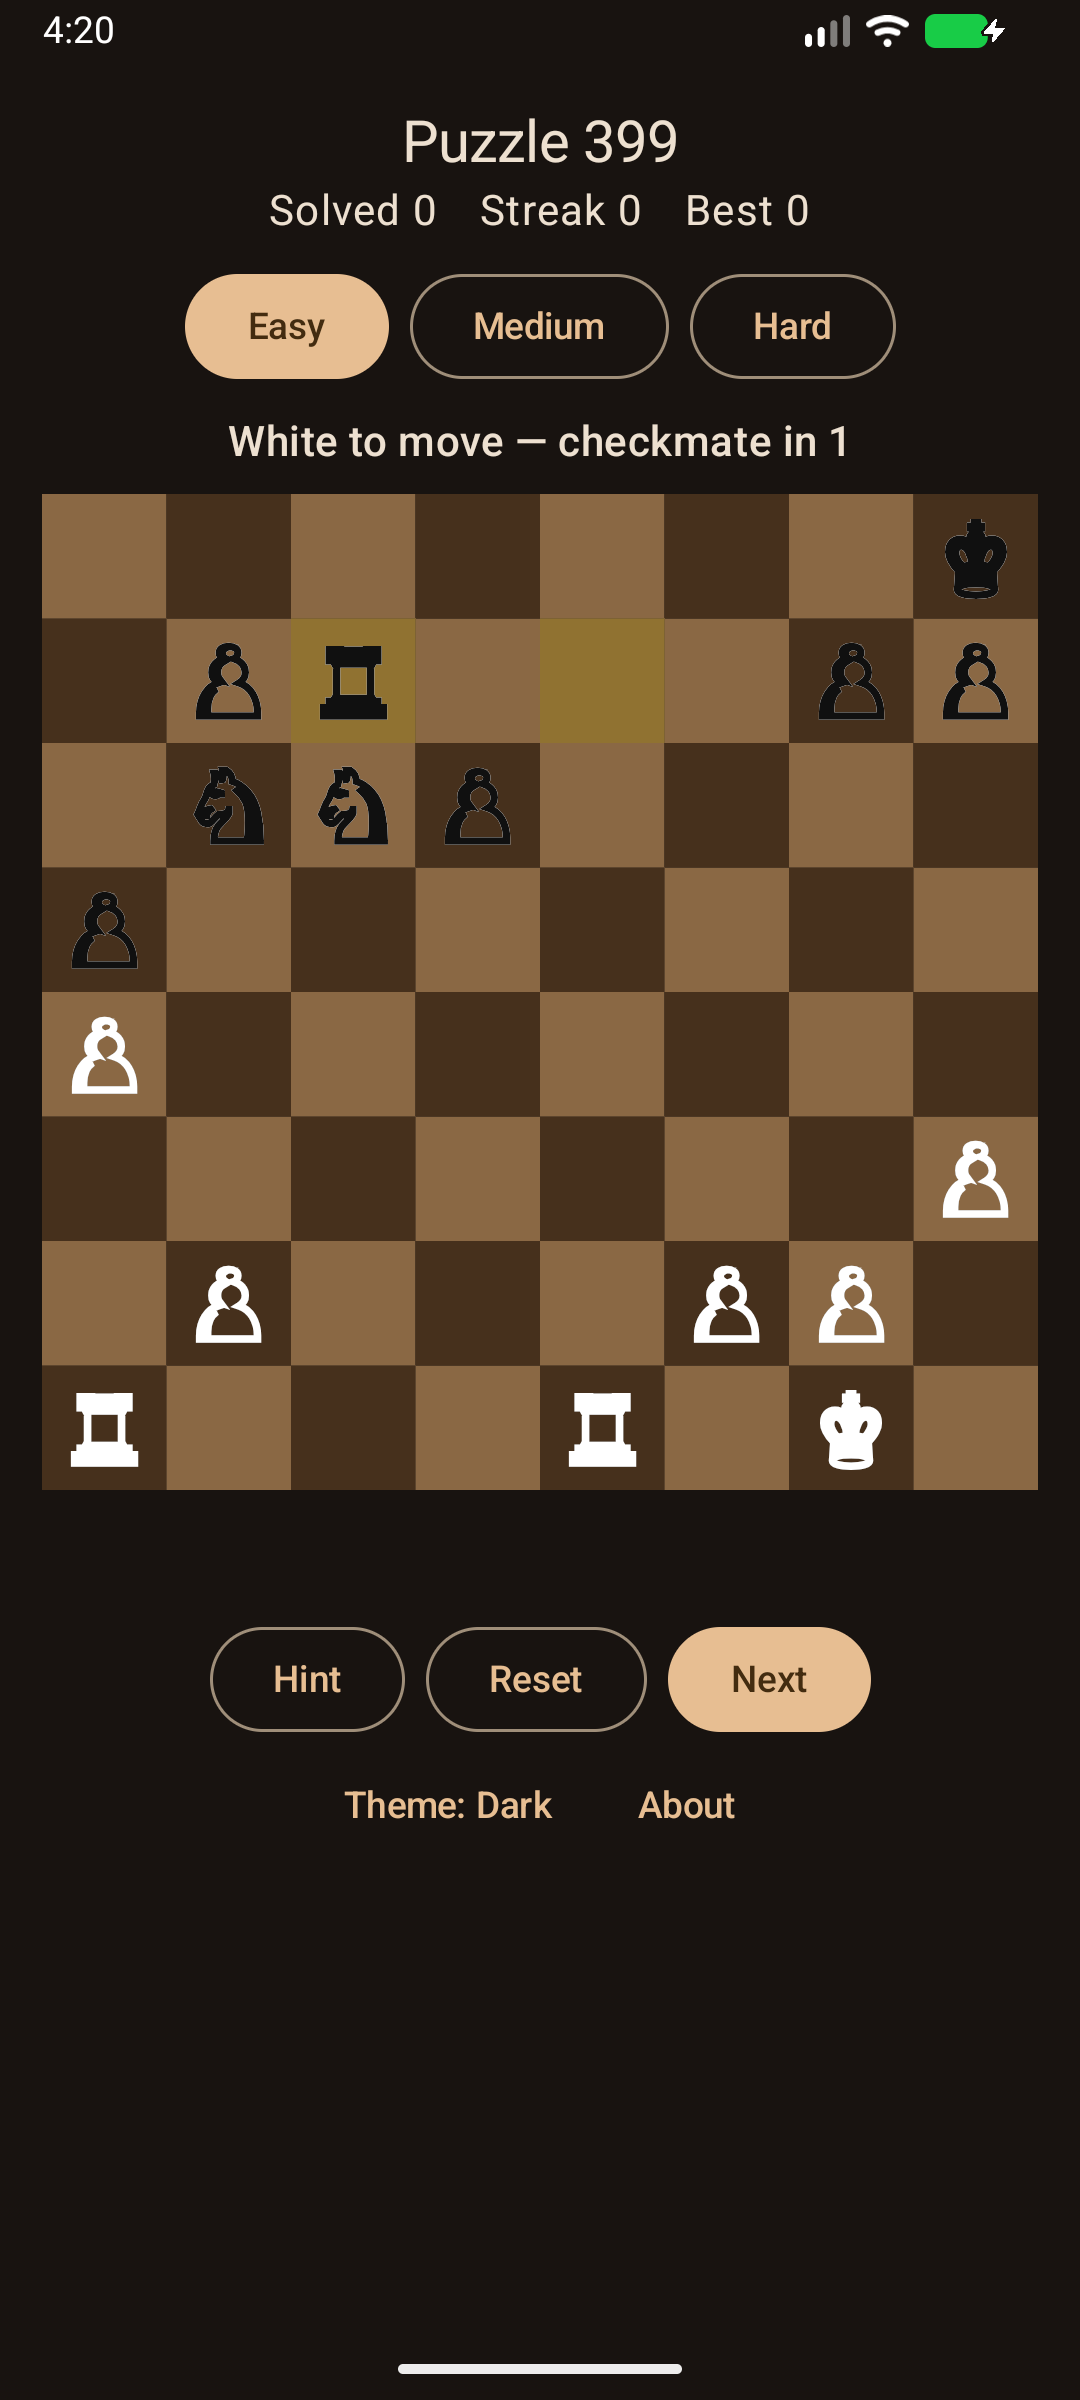
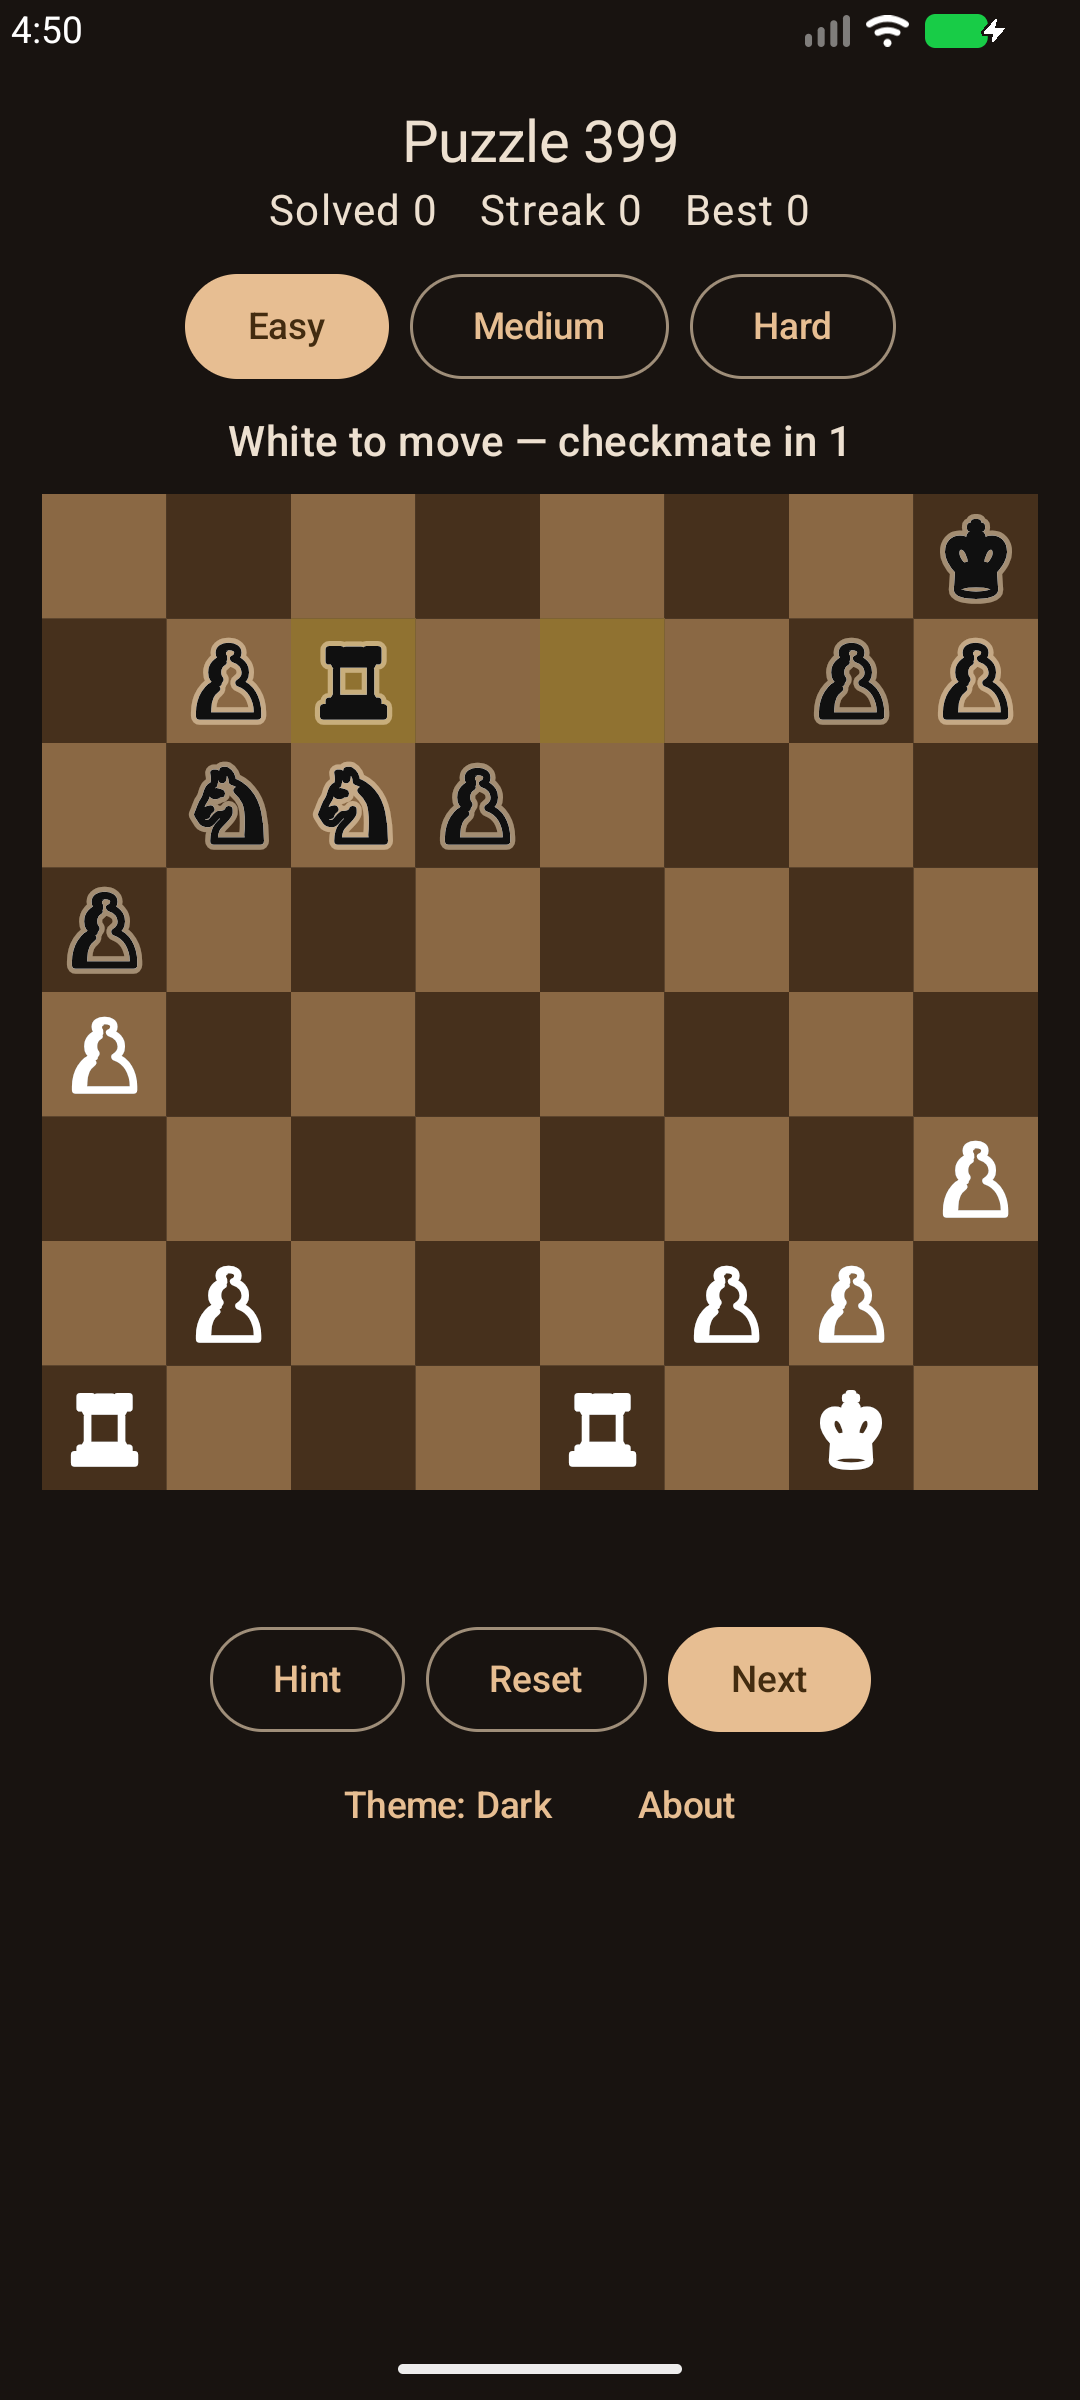
fix: soft halo makes dark pieces spottable on the night board
The thicker rim helped legibility but not peripheral spotting — a black
fill can never reach useful contrast against the dark night square, so
the eye needs local contrast around the silhouette. Dark pieces now get
a translucent warm aura (night only, palette-driven), and both aura and
rim use rounded stroke joins: wide strokes on sharp glyph corners threw
long miter spikes otherwise. Night screenshots refreshed.

diff --git a/app/src/main/java/dk/cocode/chess/ui/board/BoardDrawing.kt b/app/src/main/java/dk/cocode/chess/ui/board/BoardDrawing.kt
@@ -3,6 +3,8 @@ package dk.cocode.chess.ui.board
 import androidx.compose.ui.geometry.Offset
 import androidx.compose.ui.geometry.Size
 import androidx.compose.ui.graphics.Color
+import androidx.compose.ui.graphics.StrokeCap
+import androidx.compose.ui.graphics.StrokeJoin
 import androidx.compose.ui.graphics.drawscope.DrawScope
 import androidx.compose.ui.graphics.drawscope.Stroke
 import androidx.compose.ui.text.TextMeasurer
@@ -57,14 +59,30 @@ internal fun DrawScope.drawPieces(
             val topLeft = BoardGeometry.squareTopLeft(Square(file, rank), squarePx, flipped)
             val white = PieceGlyph.isWhite(code)
             val glyph = PieceGlyph.glyph(code)
-            // Outline first, fill on top: a contrasting rim so white pieces read on light
-            // squares and dark pieces read on dark squares.
+            // Halo (night only), then outline, then fill: a contrasting rim so white pieces
+            // read on light squares and dark pieces read on dark squares; the aura makes dark
+            // pieces spottable on the dimmed night board. Round joins/caps: wide strokes on
+            // sharp glyph corners would otherwise throw long miter spikes.
+            val halo = if (!white && palette.darkPieceHaloWidth > 0f) {
+                textMeasurer.measure(
+                    text = glyph,
+                    style = TextStyle(
+                        color = palette.darkPieceHalo,
+                        fontSize = fontSize,
+                        drawStyle = Stroke(
+                            width = squarePx * palette.darkPieceHaloWidth,
+                            cap = StrokeCap.Round,
+                            join = StrokeJoin.Round,
+                        ),
+                    ),
+                )
+            } else null
             val outline = textMeasurer.measure(
                 text = glyph,
                 style = TextStyle(
                     color = if (white) PIECE_WHITE_OUTLINE else palette.darkPieceOutline,
                     fontSize = fontSize,
-                    drawStyle = Stroke(width = outlineWidth),
+                    drawStyle = Stroke(width = outlineWidth, cap = StrokeCap.Round, join = StrokeJoin.Round),
                 ),
             )
             val fill = textMeasurer.measure(
@@ -75,6 +93,7 @@ internal fun DrawScope.drawPieces(
                 topLeft.x + (squarePx - fill.size.width) / 2f,
                 topLeft.y + (squarePx - fill.size.height) / 2f,
             )
+            halo?.let { drawText(textLayoutResult = it, topLeft = offset) }
             drawText(textLayoutResult = outline, topLeft = offset)
             drawText(textLayoutResult = fill, topLeft = offset)
         }

diff --git a/app/src/main/java/dk/cocode/chess/ui/board/BoardPalette.kt b/app/src/main/java/dk/cocode/chess/ui/board/BoardPalette.kt
@@ -14,6 +14,9 @@ data class BoardPalette(
     val darkPieceOutline: Color,
     /** Outline stroke width as a fraction of the square size. */
     val pieceOutlineWidth: Float,
+    /** Soft aura behind dark pieces so they can be spotted on dark squares; 0 width disables it. */
+    val darkPieceHalo: Color,
+    val darkPieceHaloWidth: Float,
 )
 
 /** Walnut wood, tuned for daylight. */
@@ -26,6 +29,8 @@ val DayBoardPalette = BoardPalette(
     marker = Color(0x40000000),
     darkPieceOutline = Color(0xFFEDEDED),
     pieceOutlineWidth = 0.035f,
+    darkPieceHalo = Color.Transparent,
+    darkPieceHaloWidth = 0f,
 )
 
 /**
@@ -43,6 +48,8 @@ val NightBoardPalette = BoardPalette(
     marker = Color(0x59FFFFFF),
     darkPieceOutline = Color(0xFFFAFAFA),
     pieceOutlineWidth = 0.06f,
+    darkPieceHalo = Color(0x80FFE9C8),
+    darkPieceHaloWidth = 0.14f,
 )
 
 /** Provided by ChessTheme so the board follows the app's day/night mode. */

diff --git a/app/src/test/java/dk/cocode/chess/ui/board/BoardPaletteTest.kt b/app/src/test/java/dk/cocode/chess/ui/board/BoardPaletteTest.kt
@@ -11,6 +11,12 @@ class BoardPaletteTest {
         assertNotEquals(DayBoardPalette.darkPieceOutline, NightBoardPalette.darkPieceOutline)
     }
 
+    @Test fun onlyNightHasAHaloBehindDarkPieces() {
+        assertTrue(DayBoardPalette.darkPieceHaloWidth == 0f) // day pieces need no aura
+        assertTrue(NightBoardPalette.darkPieceHaloWidth > 0f)
+        assertTrue(NightBoardPalette.darkPieceHalo.alpha > 0f)
+    }
+
     @Test fun nightBoardIsDimmerThanDay() {
         assertTrue(NightBoardPalette.lightSquare.luminance() < DayBoardPalette.lightSquare.luminance())
         assertTrue(NightBoardPalette.darkSquare.luminance() < DayBoardPalette.darkSquare.luminance())